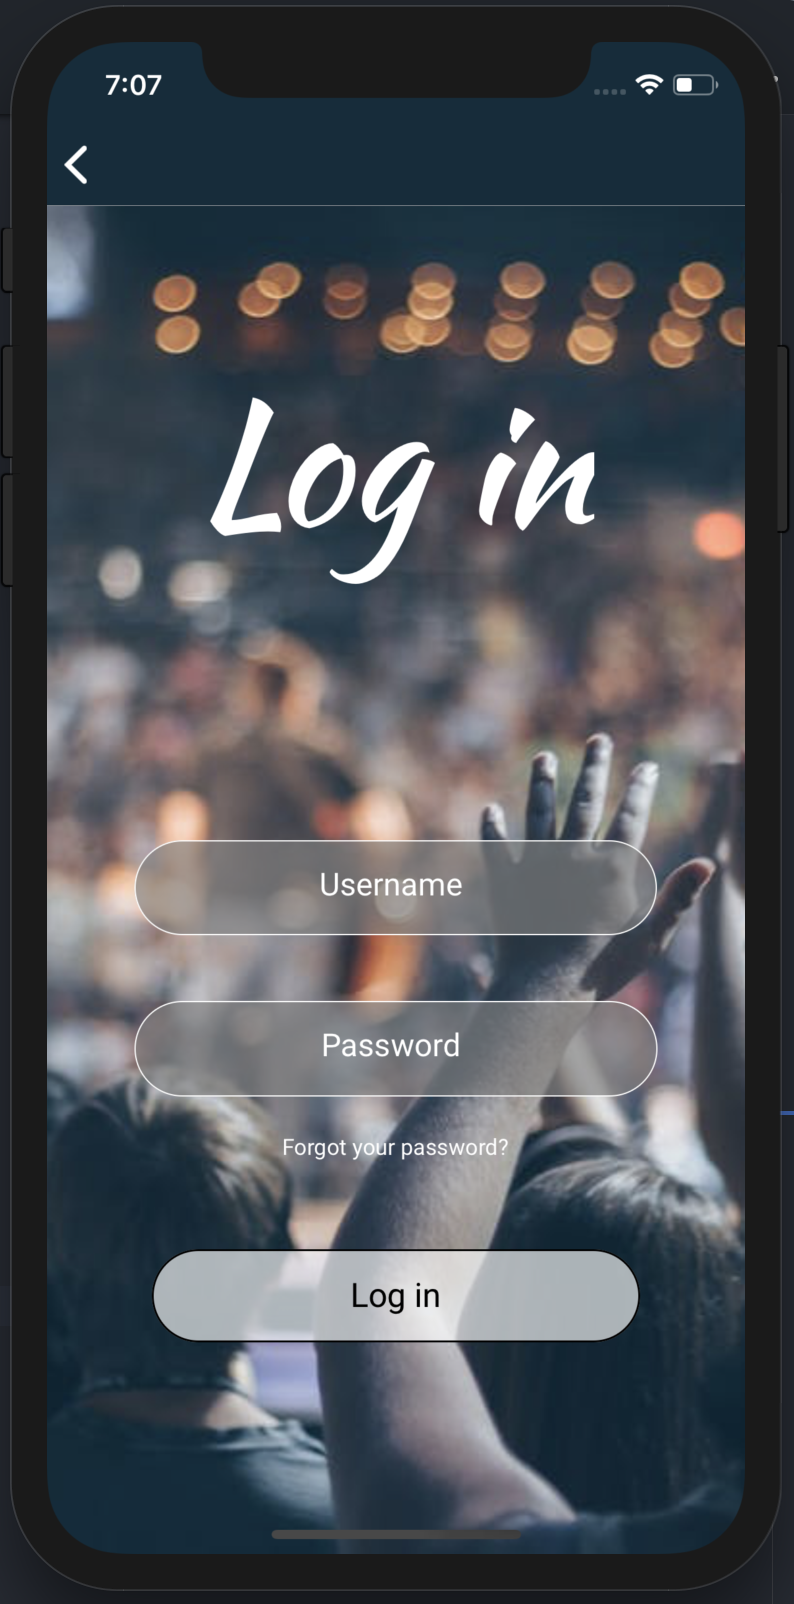
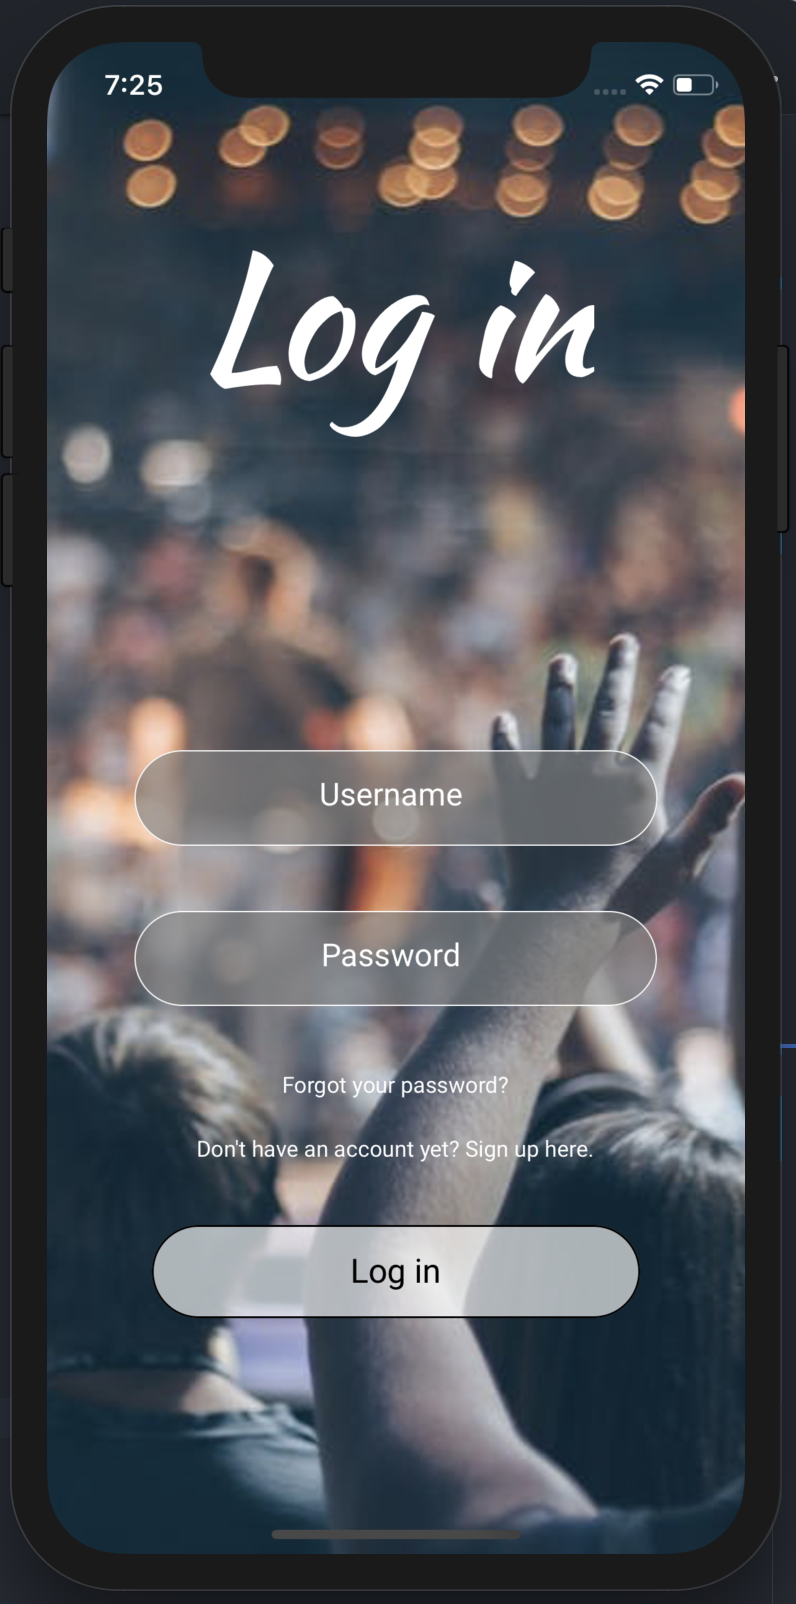
Login screen

diff --git a/app/screens/LoginScreen.js b/app/screens/LoginScreen.js
@@ -21,10 +21,7 @@ class LoginScreen extends Component {
   }
 
   static navigationOptions = {
-    headerStyle: {
-      backgroundColor: '#112C3B',
-    },
-    headerTintColor: '#fff',
+    header: null
   }
 
   render() {
@@ -54,6 +51,13 @@ class LoginScreen extends Component {
               </Item>
               <View style={styles.forgottenPasswordContainer}>
                 <Text style={styles.forgottenPasswordText}>Forgot your password?</Text>
+              </View>
+              <View style={styles.noAccountContainer}>
+                <Text style={styles.noAccountText}
+                      onPress={() => this.props.navigation.navigate('SignupScreen')}
+                >
+                  Don't have an account yet? Sign up here.
+                </Text>
               </View>
             </Form>
           </View>
@@ -123,8 +127,18 @@ const styles = StyleSheet.create({
   },
   forgottenPasswordContainer: {
     alignItems: 'center',
+    marginTop: 15,
   },
   forgottenPasswordText: {
+    color: '#fff',
+    fontFamily: 'roboto-regular', 
+    fontSize: 12,
+  },
+  noAccountContainer: {
+    alignItems: 'center',
+    marginTop: 20,
+  },
+  noAccountText: {
     color: '#fff',
     fontFamily: 'roboto-regular', 
     fontSize: 12,
